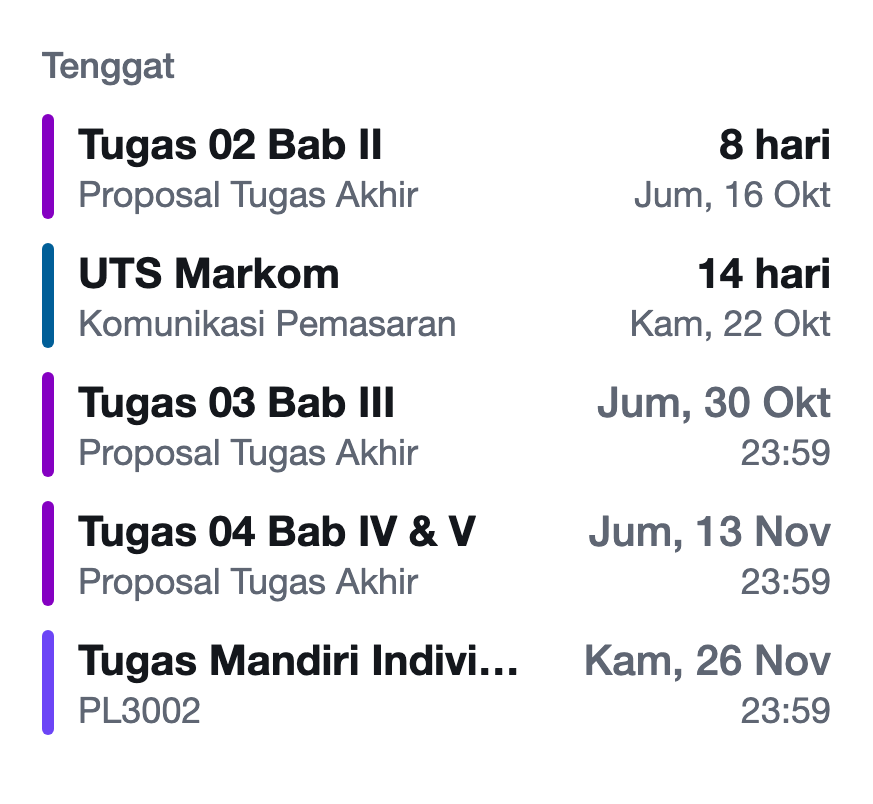
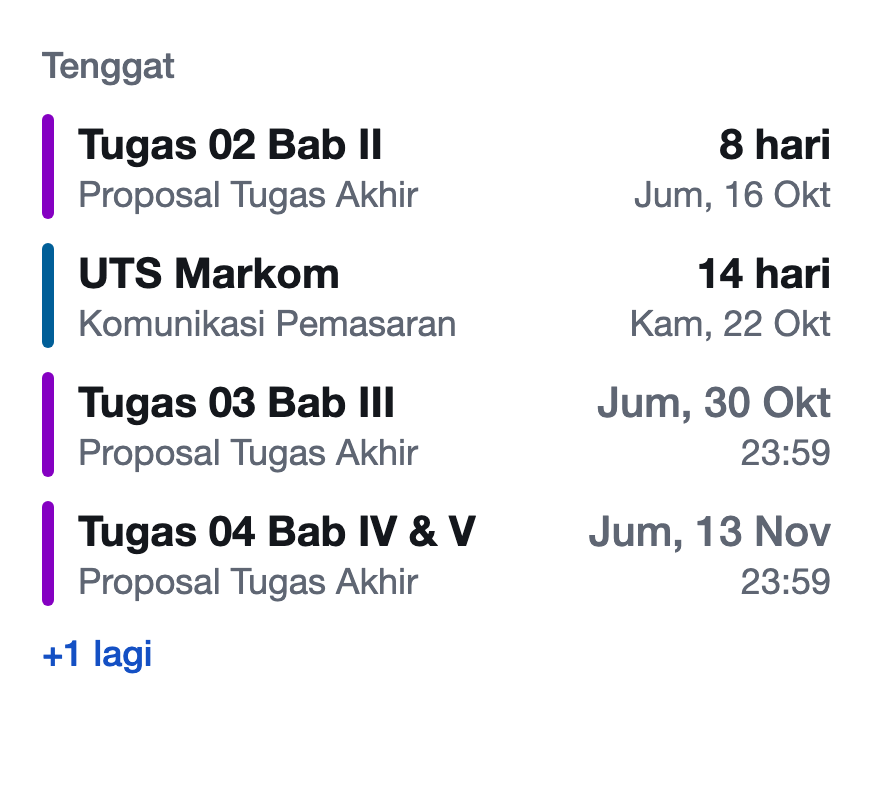
fix(widgets): a long deadline title keeps two lines, and the default size still shows four deadlines

Changed region(s): [[0.0309, 0.7774, 0.5876, 0.9328], [0.6495, 0.7774, 0.9588, 0.8396], [0.8351, 0.8706, 0.9588, 0.9017]]

diff --git a/mobile/src/widget/views.tsx b/mobile/src/widget/views.tsx
@@ -65,7 +65,11 @@ export function DueView({ model, size, theme, lang }: { model: DueWidget; size: 
   // The course by its name where the line holds it whole, else its code.
   const courseOf = (row: DueRow) => (row.name && safeWidth(row.name, 12 * scale) <= titleWidth ? row.name : row.code);
   const underOf = (row: DueRow) => `${topOf(row)} · ${bottomOf(row)}`;
-  const linesFor = (row: DueRow, most: number) => Math.min(most, linesOf(row.title, 14 * scale, titleWidth));
+  // A title that's a line and a bit by the (safe) estimate sits on one; a long one keeps two before it's cut.
+  const linesFor = (row: DueRow, most: number) => {
+    const need = linesOf(row.title, 14 * scale, titleWidth);
+    return most === 1 ? (need >= 3 ? 2 : 1) : Math.min(most, need);
+  };
   const heightOf = (row: DueRow, most: number) => (linesFor(row, most) * LINE.small + LINE.micro) * scale + 8;
   const fits = (lines: number) => model.rows.reduce((sum, row) => sum + heightOf(row, lines), 0) <= room;
   const most = fits(3) ? 3 : fits(2) ? 2 : 1;
